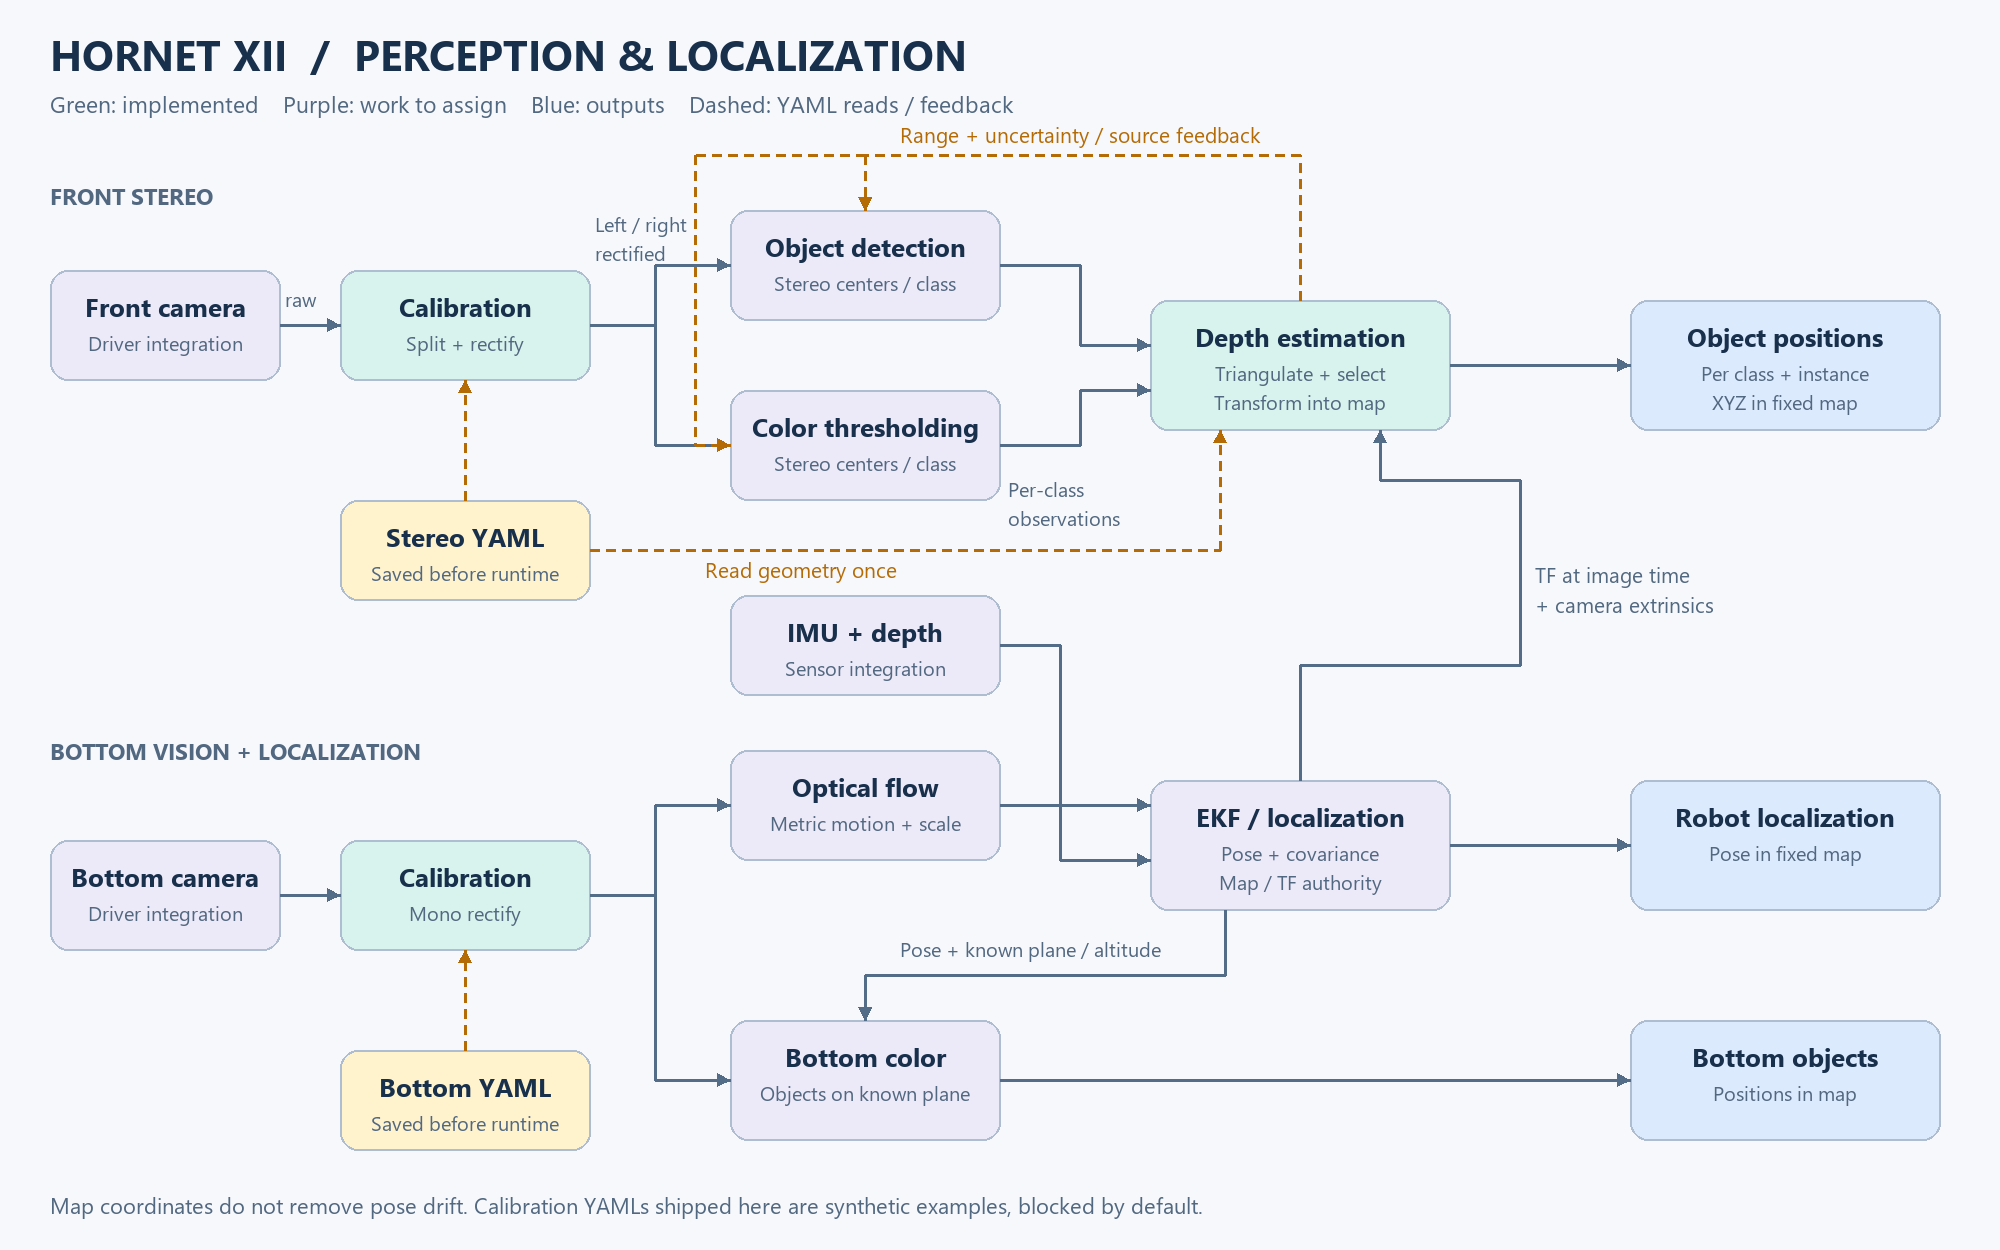
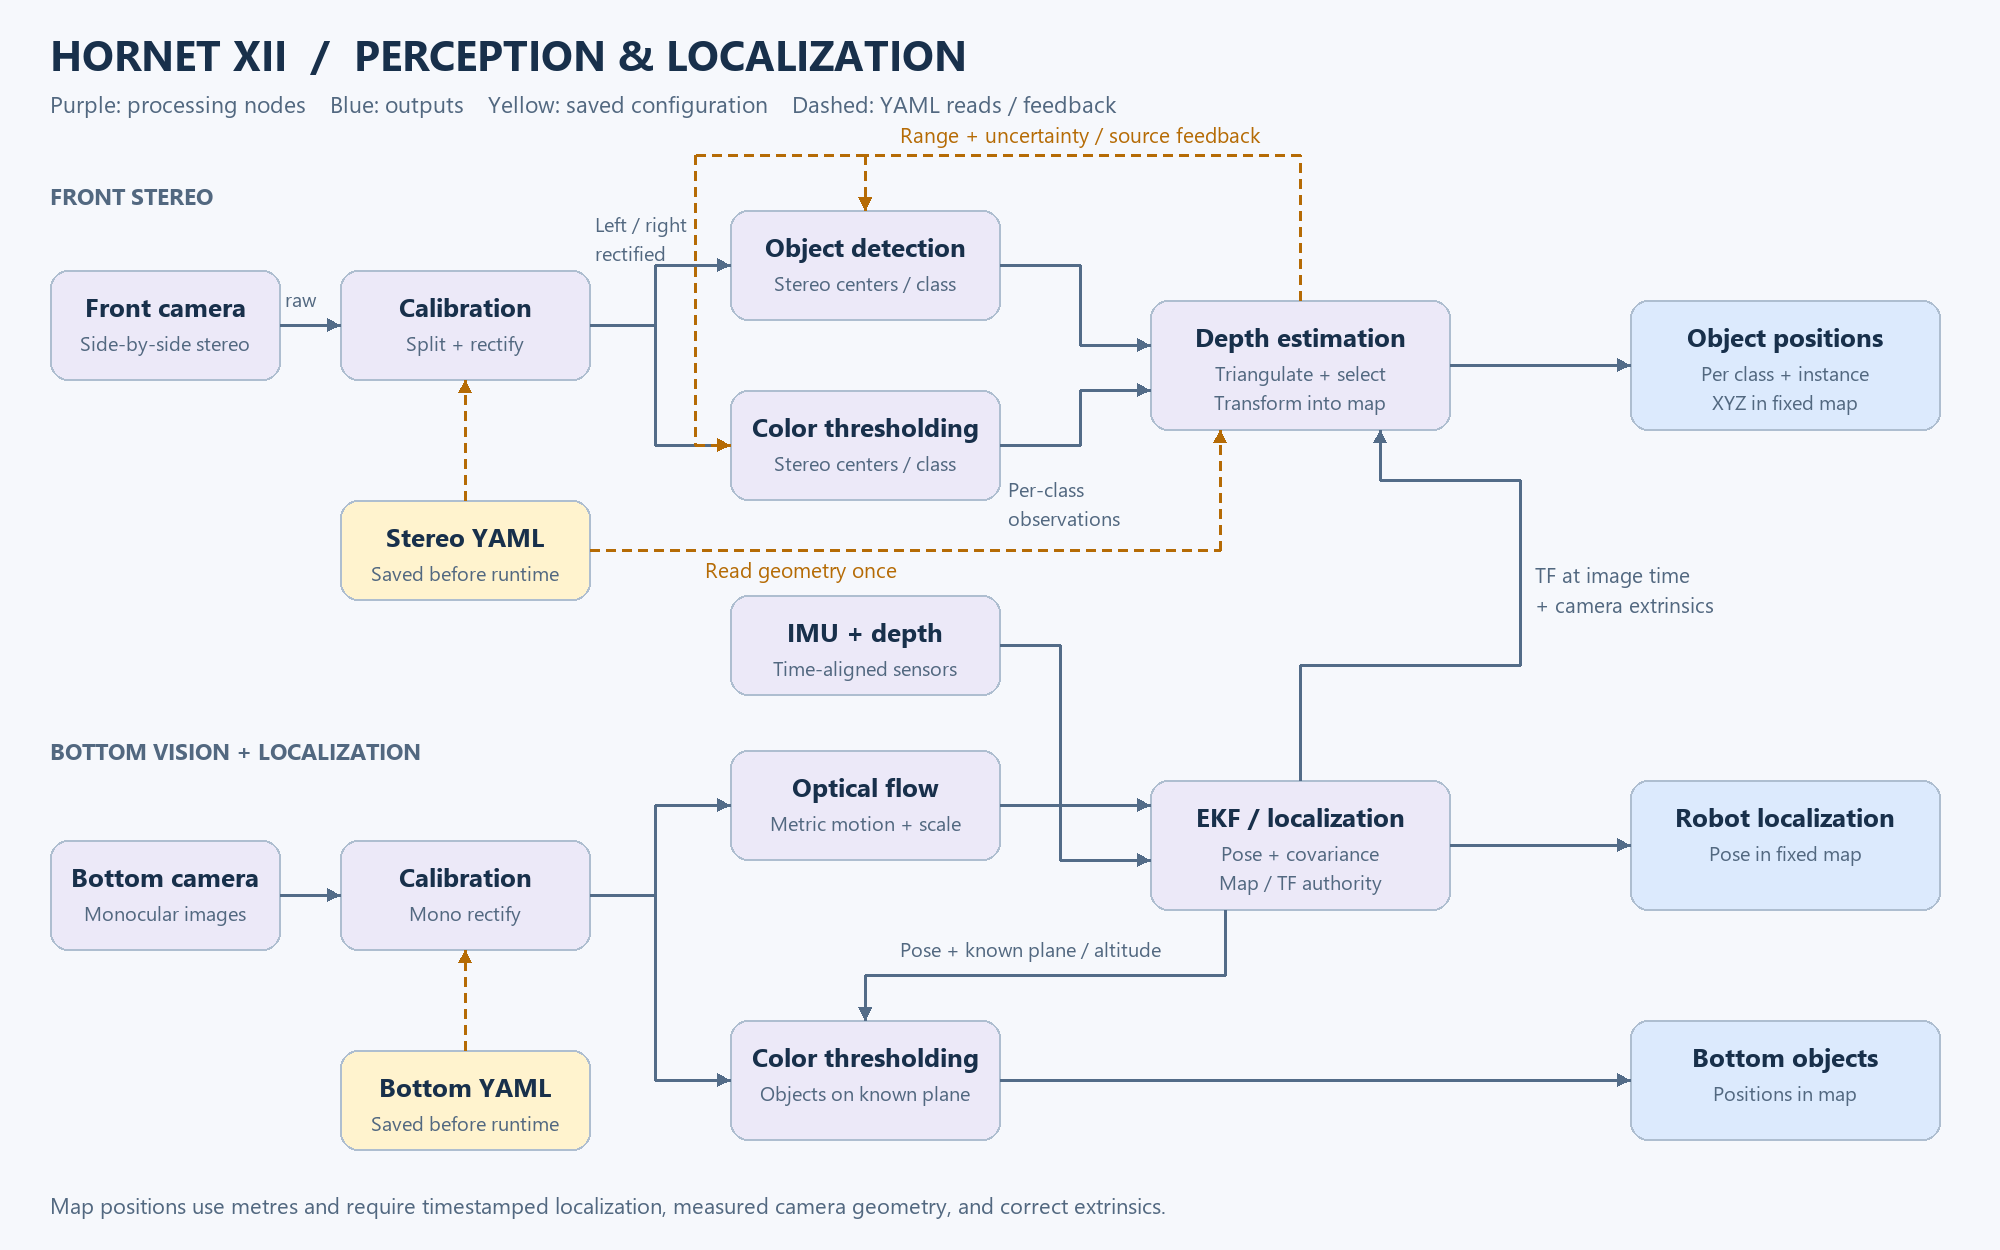
Make architecture diagrams independent of team progress

diff --git a/tools/draw_diagrams.py b/tools/draw_diagrams.py
@@ -7,7 +7,7 @@ from PIL import Image, ImageDraw, ImageFont
 
 OUT = Path(__file__).resolve().parents[1] / 'docs/images'
 COLORS = {'ink': '#18304b', 'muted': '#526880', 'background': '#f6f8fc',
-          'implemented': '#d8f3ed', 'planned': '#ece9f8', 'output': '#dceafd',
+          'node': '#ece9f8', 'output': '#dceafd',
           'config': '#fff3ce', 'feedback': '#b56b05', 'line': '#536c88'}
 
 
@@ -39,7 +39,7 @@ class Diagram:
             width = self.draw.textlength(text, font=font)
             self.draw.text((x-width/2 if anchor == 'center' else x, cy), text, font=font, fill=COLORS[color])
 
-    def box(self, x, y, width, height, title, subtitle, kind='planned'):
+    def box(self, x, y, width, height, title, subtitle, kind='node'):
         fill = COLORS[kind]
         self.svg.append(f'<rect x="{x}" y="{y}" width="{width}" height="{height}" rx="18" fill="{fill}" stroke="#aebed0" stroke-width="2"/>')
         self.draw.rounded_rectangle((x, y, x+width, y+height), radius=18, fill=fill, outline='#aebed0', width=2)
@@ -76,13 +76,13 @@ class Diagram:
 def framework():
     d=Diagram(2000,1250)
     d.text(50,25,'HORNET XII  /  PERCEPTION & LOCALIZATION',42,True)
-    d.text(50,88,'Green: implemented    Purple: work to assign    Blue: outputs    Dashed: YAML reads / feedback',23,color='muted')
+    d.text(50,88,'Purple: processing nodes    Blue: outputs    Yellow: saved configuration    Dashed: YAML reads / feedback',23,color='muted')
     d.text(50,180,'FRONT STEREO',23,True,color='muted')
-    d.box(50,270,230,110,'Front camera',['Driver integration'])
-    d.box(340,270,250,110,'Calibration',['Split + rectify'],'implemented')
+    d.box(50,270,230,110,'Front camera',['Side-by-side stereo'])
+    d.box(340,270,250,110,'Calibration',['Split + rectify'])
     d.box(730,210,270,110,'Object detection',['Stereo centers / class'])
     d.box(730,390,270,110,'Color thresholding',['Stereo centers / class'])
-    d.box(1150,300,300,130,'Depth estimation',['Triangulate + select','Transform into map'],'implemented')
+    d.box(1150,300,300,130,'Depth estimation',['Triangulate + select','Transform into map'])
     d.box(1630,300,310,130,'Object positions',['Per class + instance','XYZ in fixed map'],'output')
     d.box(340,500,250,100,'Stereo YAML',['Saved before runtime'],'config')
     d.arrow([(280,325),(340,325)])
@@ -101,11 +101,11 @@ def framework():
     d.arrow([(865,155),(695,155),(695,445),(730,445)],color='feedback',dashed=True)
     d.text(900,120,'Range + uncertainty / source feedback',21,color='feedback')
     d.text(50,735,'BOTTOM VISION + LOCALIZATION',23,True,color='muted')
-    d.box(50,840,230,110,'Bottom camera',['Driver integration'])
-    d.box(340,840,250,110,'Calibration',['Mono rectify'],'implemented')
+    d.box(50,840,230,110,'Bottom camera',['Monocular images'])
+    d.box(340,840,250,110,'Calibration',['Mono rectify'])
     d.box(730,750,270,110,'Optical flow',['Metric motion + scale'])
-    d.box(730,1020,270,120,'Bottom color',['Objects on known plane'])
-    d.box(730,595,270,100,'IMU + depth',['Sensor integration'])
+    d.box(730,1020,270,120,'Color thresholding',['Objects on known plane'])
+    d.box(730,595,270,100,'IMU + depth',['Time-aligned sensors'])
     d.box(1150,780,300,130,'EKF / localization',['Pose + covariance','Map / TF authority'])
     d.box(1630,780,310,130,'Robot localization',['Pose in fixed map'],'output')
     d.box(1630,1020,310,120,'Bottom objects',['Positions in map'],'output')
@@ -122,7 +122,7 @@ def framework():
     d.text(1535,560,['TF at image time','+ camera extrinsics'],21,color='muted')
     d.arrow([(1225,910),(1225,975),(865,975),(865,1020)])
     d.text(900,935,'Pose + known plane / altitude',20,color='muted')
-    d.text(50,1190,'Map coordinates do not remove pose drift. Calibration YAMLs shipped here are synthetic examples, blocked by default.',22,color='muted')
+    d.text(50,1190,'Map positions use metres and require timestamped localization, measured camera geometry, and correct extrinsics.',22,color='muted')
     d.save('framework')
 
 
@@ -131,14 +131,14 @@ def overview():
     d.text(50,30,'HORNET XII PL  /  SYSTEM BOUNDARY',38,True)
     d.box(50,160,250,100,'Cameras',['Front stereo + bottom'])
     d.box(50,350,250,100,'IMU + depth',['Time-aligned sensors'])
-    d.box(470,230,360,150,'Perception &',['Localization'],'implemented')
+    d.box(470,230,360,150,'Perception &',['Localization'])
     d.box(1010,160,290,100,'Object positions',['Metric map coordinates'],'output')
     d.box(1010,350,290,100,'Robot localization',['Pose + uncertainty'],'output')
     d.arrow([(300,210),(390,210),(390,270),(470,270)])
     d.arrow([(300,400),(390,400),(390,340),(470,340)])
     d.arrow([(830,270),(920,270),(920,210),(1010,210)])
     d.arrow([(830,340),(920,340),(920,400),(1010,400)])
-    d.text(50,540,'Implementation scope: calibration / rectification + sparse stereo depth. Other node roles are assignment scaffolds.',22,color='muted')
+    d.text(50,540,'Cameras, IMU and depth feed perception and localization; object positions and robot pose share a fixed map frame.',22,color='muted')
     d.save('system-overview')
 
 

diff --git a/README.md b/README.md
@@ -18,7 +18,7 @@ Inspired by the modular camera architecture in [Hornet 9](https://github.com/hor
 4. The bottom camera has a separate instance of the same calibration node. Its rectified image feeds optical flow and bottom color thresholding.
 5. The localization owner fuses IMU/depth and metric optical-flow information, maintains the pose/TF chain, and defines the map origin. Bottom object positions additionally require a known plane or altitude and correct camera geometry.
 
-Dashed arrows in the diagram represent configuration reads or feedback. Focal length and stereo baseline are saved in YAML and read once by consumers; there are **no continuously published focal-length/baseline topics**. “Calibration” in the runtime graph means applying saved calibration. A separate offline tool estimates it before deployment.
+Diagram colors identify roles (nodes, outputs, and saved configuration), independently of implementation progress. Dashed arrows represent configuration reads or feedback. Focal length and stereo baseline are saved in YAML and read once by consumers; there are **no continuously published focal-length/baseline topics**. “Calibration” in the runtime graph means applying saved calibration. A separate offline tool estimates it before deployment.
 
 **Map coordinates are metric coordinates in a fixed frame, not camera-relative XYZ and not values scaled to 0–1.** Expressing a point in `map` does not remove localization drift or calibration error. The current covariance describes pixel-induced stereo uncertainty conditional on exact robot pose/calibration; it is not a ground-truth error bound.
 
